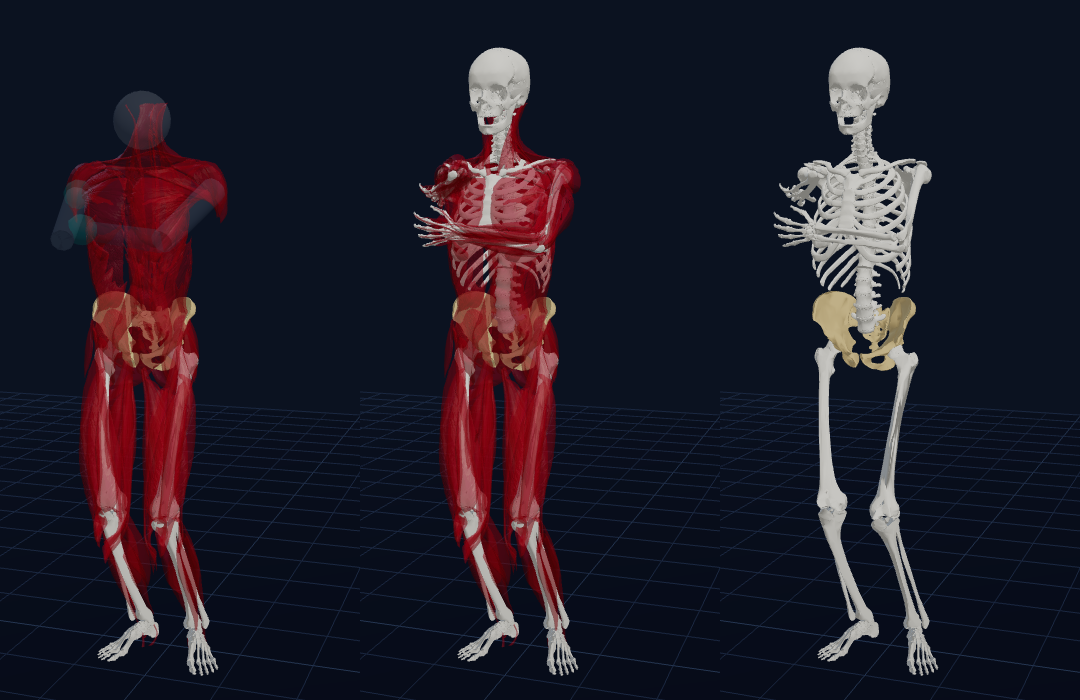
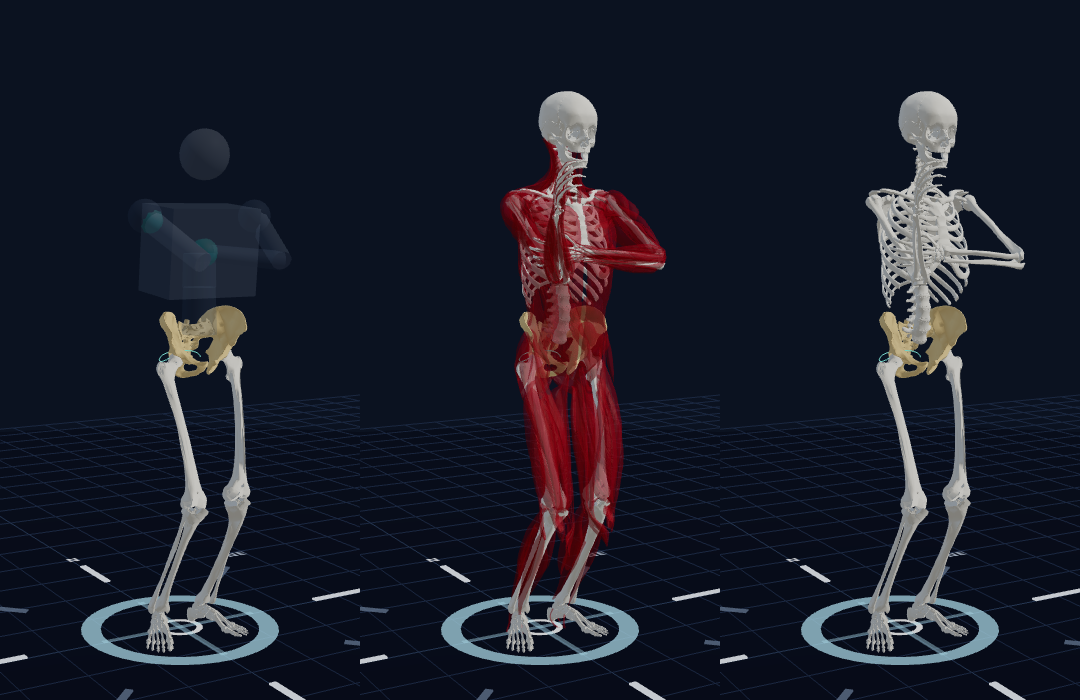
fix(#182): seul, le bras levé du cadre ne se replie plus sur l'épaule — coude dans son amplitude, avant-bras dressé
Le cadre stylisé hors paire plie l'avant-bras levé à 180° sur le bras ; la couche anatomique amenait la paume
sur l'épaule (coude à 167°). Pour une main libre placée au-delà de l'amplitude du coude (ELBOW_MAX, 145°),
l'avant-bras monte depuis le coude du rig (RAISED). Test : flexion des coudes seul, échoue avant la correction.

diff --git a/src/upperBody.ts b/src/upperBody.ts
@@ -66,6 +66,12 @@ export function readUpperBody(scene: THREE.Object3D): UpperBodyModel {
 /** Pronation range kept (rad, from the anatomical position, palm forward): an animation parameter of this
  * model, not a clinical limit. */
 export const PRONATION = { min: -0.17, max: 2.97 };
+/** Flexion the elbow allows (rad; 0: the arm straight). Past it, a rig's hand asks for a fold no elbow gives (#182). */
+export const ELBOW_MAX = 2.53;
+/** A free hand the rig folds past that range (its frame alone, #182), in the chest's frame: where the forearm
+ * rises from the rig's elbow (outwards, up, forwards) and where the palm faces (inwards, up, forwards). Clear of
+ * the face, a wide mascot's head included. Animation parameters, to validate by eye. */
+export const RAISED = { forearm: [0.35, 0.8, 0.45] as V3, palm: [1, 0, 0.5] as V3 };
 /** Head carriage in a close embrace (animation parameters, to validate by eye): when the two heads are close,
  * each dancer turns theirs to their left, cheek to cheek; beyond `far`, they face each other. Face to face at
  * 24 cm, two skulls already touch. */
@@ -222,6 +228,9 @@ export class UpperBody {
       armF.updateWorldMatrix(true, false);
       const target = armF.localToWorld(HAND.clone()), rigElbow = armF.getWorldPosition(new THREE.Vector3());
       const { hold, normal } = this.palmFacing(s, target, partner, follower);
+      // Flexion the rig asks of the elbow: the angle from the line of its arm to its forearm.
+      const armU = r["armU" + s] as THREE.Object3D | undefined;
+      const folded = !!armU && rigElbow.clone().sub(armU.getWorldPosition(new THREE.Vector3())).angleTo(target.clone().sub(rigElbow)) > ELBOW_MAX;
       // #179, candidate: the joined hands held up, the follower's hand fitted into the leader's.
       const upright = hold === "hands" && essai("mainsCote");
       const shape = hold === "hands" ? (upright ? (follower ? GRIP.upright.hers : GRIP.upright.his) : follower ? HAND_SHAPES.closes : HAND_SHAPES.offers)
@@ -253,6 +262,12 @@ export class UpperBody {
         // The leader's hand: the palm on the rig's point, facing between his right and her, the fingers to the sky.
         const facing = new THREE.Vector3(...GRIP.upright.palm).transformDirection(r.chest.matrixWorld).setY(0).normalize();
         posed = this.take(this.arms[s], target, facing, new THREE.Vector3(0, 1, 0), low());
+      } else if (hold === "free" && folded) {
+        // #182: the rig's frame, alone, folds its raised forearm flat on the arm, the hand on the shoulder. No elbow
+        // does that: the forearm rises from the rig's elbow, as the frame means it, the palm inwards.
+        const out = s === "L" ? 1 : -1, chest = (x: number, y: number, z: number) => new THREE.Vector3(x, y, z).transformDirection(r.chest.matrixWorld);
+        const rise = chest(out * RAISED.forearm[0], RAISED.forearm[1], RAISED.forearm[2]);
+        posed = this.pose(this.arms[s], rigElbow.clone().addScaledVector(rise, HAND.length()), rigElbow, chest(-out * RAISED.palm[0], RAISED.palm[1], RAISED.palm[2]));
       } else posed = this.pose(this.arms[s], target, rigElbow, normal);
       this.state[s] = { ...posed, target, hold, shape };
       this.shape(s, shape);

diff --git a/docs/spec-haut-du-corps.md b/docs/spec-haut-du-corps.md
@@ -44,6 +44,14 @@ longueurs anatomiques, depuis l'articulation réelle de l'épaule.
 | Coude → main | 24 cm | poignet 23,6 cm, paume 29,3 cm |
 
 - **Coude** : deux segments résolus par `solveArm` (`src/cadre.ts`), le coude pliant du côté du coude du rig.
+- **Amplitude du coude (#182)** : un coude ne plie pas au-delà de 145° (`ELBOW_MAX`). Hors paire, le cadre du rig
+  replie l'avant-bras levé à 180° sur le bras, la main sur l'épaule : avec des cylindres le défaut ne se voit pas,
+  avec des os le bras se repliait à 167°, l'humérus en travers de la poitrine. Pour une main libre que le rig place
+  au-delà de l'amplitude, l'avant-bras monte depuis le coude du rig, vers le haut, un peu en avant et en dehors, paume
+  vers l'intérieur (`RAISED`, réglage à valider à l'œil) : c'est ce que la convention du cadre énonce. Le coude plie
+  alors de 106° au plus. Le rig stylisé et ses conventions ne changent pas ; en paire, rien ne change.
+
+  ![Seul, le bras levé : avant (en haut), après (en bas)](haut-du-corps/seul-bras-leve-avant-apres.png)
 - **Avant-bras** : le radius tourne autour de l'ulna (pronation), de −10° à 170° depuis la position anatomique
   (`PRONATION`). La paume se tourne vers le dos du partenaire (main posée sur l'omoplate), vers la paume de l'autre
   (mains jointes), sinon vers le corps. Les muscles de l'avant-bras suivent la torsion en cinq paliers.
@@ -115,6 +123,8 @@ guideur. Seul, dans les six styles : écart de paume 0 mm, tête de face. `dispo
 - Omoplates et clavicules fixes sur le thorax.
 - Coude jusqu'à 27° : les bras anatomiques sont plus longs que ceux du rig, ils plient davantage.
 - La pronation bute sur son amplitude dans certaines poses : la paume ne regarde alors pas exactement où il faudrait.
+- Hors paire, le cadre du rig lève le bras droit et croise le gauche (héritage du renommage des bras, #40), alors
+  qu'un guideur lève le gauche. La couche anatomique suit le rig ; l'inverser est une décision du propriétaire.
 - BodyParts3D 4.0 ne liste pas le grand dorsal.
 - La surbrillance des appuis ne touche pas ces pièces ; le lien « Partager » ne porte pas `haut=1`.
 - Ces mesures ne constituent pas une validation chorégraphique.

diff --git a/CONTEXT.md b/CONTEXT.md
@@ -37,6 +37,8 @@ dépôt (ce fichier, `docs/spec-*.md`, `docs/adr/*`, `docs/TASKS.md`, README) et
   Sans l'option, rien ne change ([spec](docs/spec-haut-du-corps.md), `src/upperBody.ts`, `scripts/test_upper_body.mjs`).
 - La paume vient où le rig pose la main, avec un bras aux longueurs anatomiques (28,0 cm et 29,3 cm jusqu'à la paume,
   contre 26 et 24 pour le rig) ; le radius tourne autour de l'ulna ; port de tête joue contre joue en danse serrée.
+- Seul (#182) : le cadre du rig replie l'avant-bras levé à 180° sur le bras ; la couche anatomique ne plie pas un
+  coude au-delà de 145° (`ELBOW_MAX`) et dresse cet avant-bras depuis le coude du rig (`RAISED`).
 - Demande du propriétaire : ces contributions au buste et aux bras vivent dans ce dépôt ; l'habillage des mascottes
   Rémi et Corinne vit du côté de ReCoDanse, qui exploite ce dépôt et lit `rig.upperBody`.
 - Restent : doigts raides, omoplates fixes, option pas encore par défaut ; l'écart de longueur des bras du rig est
